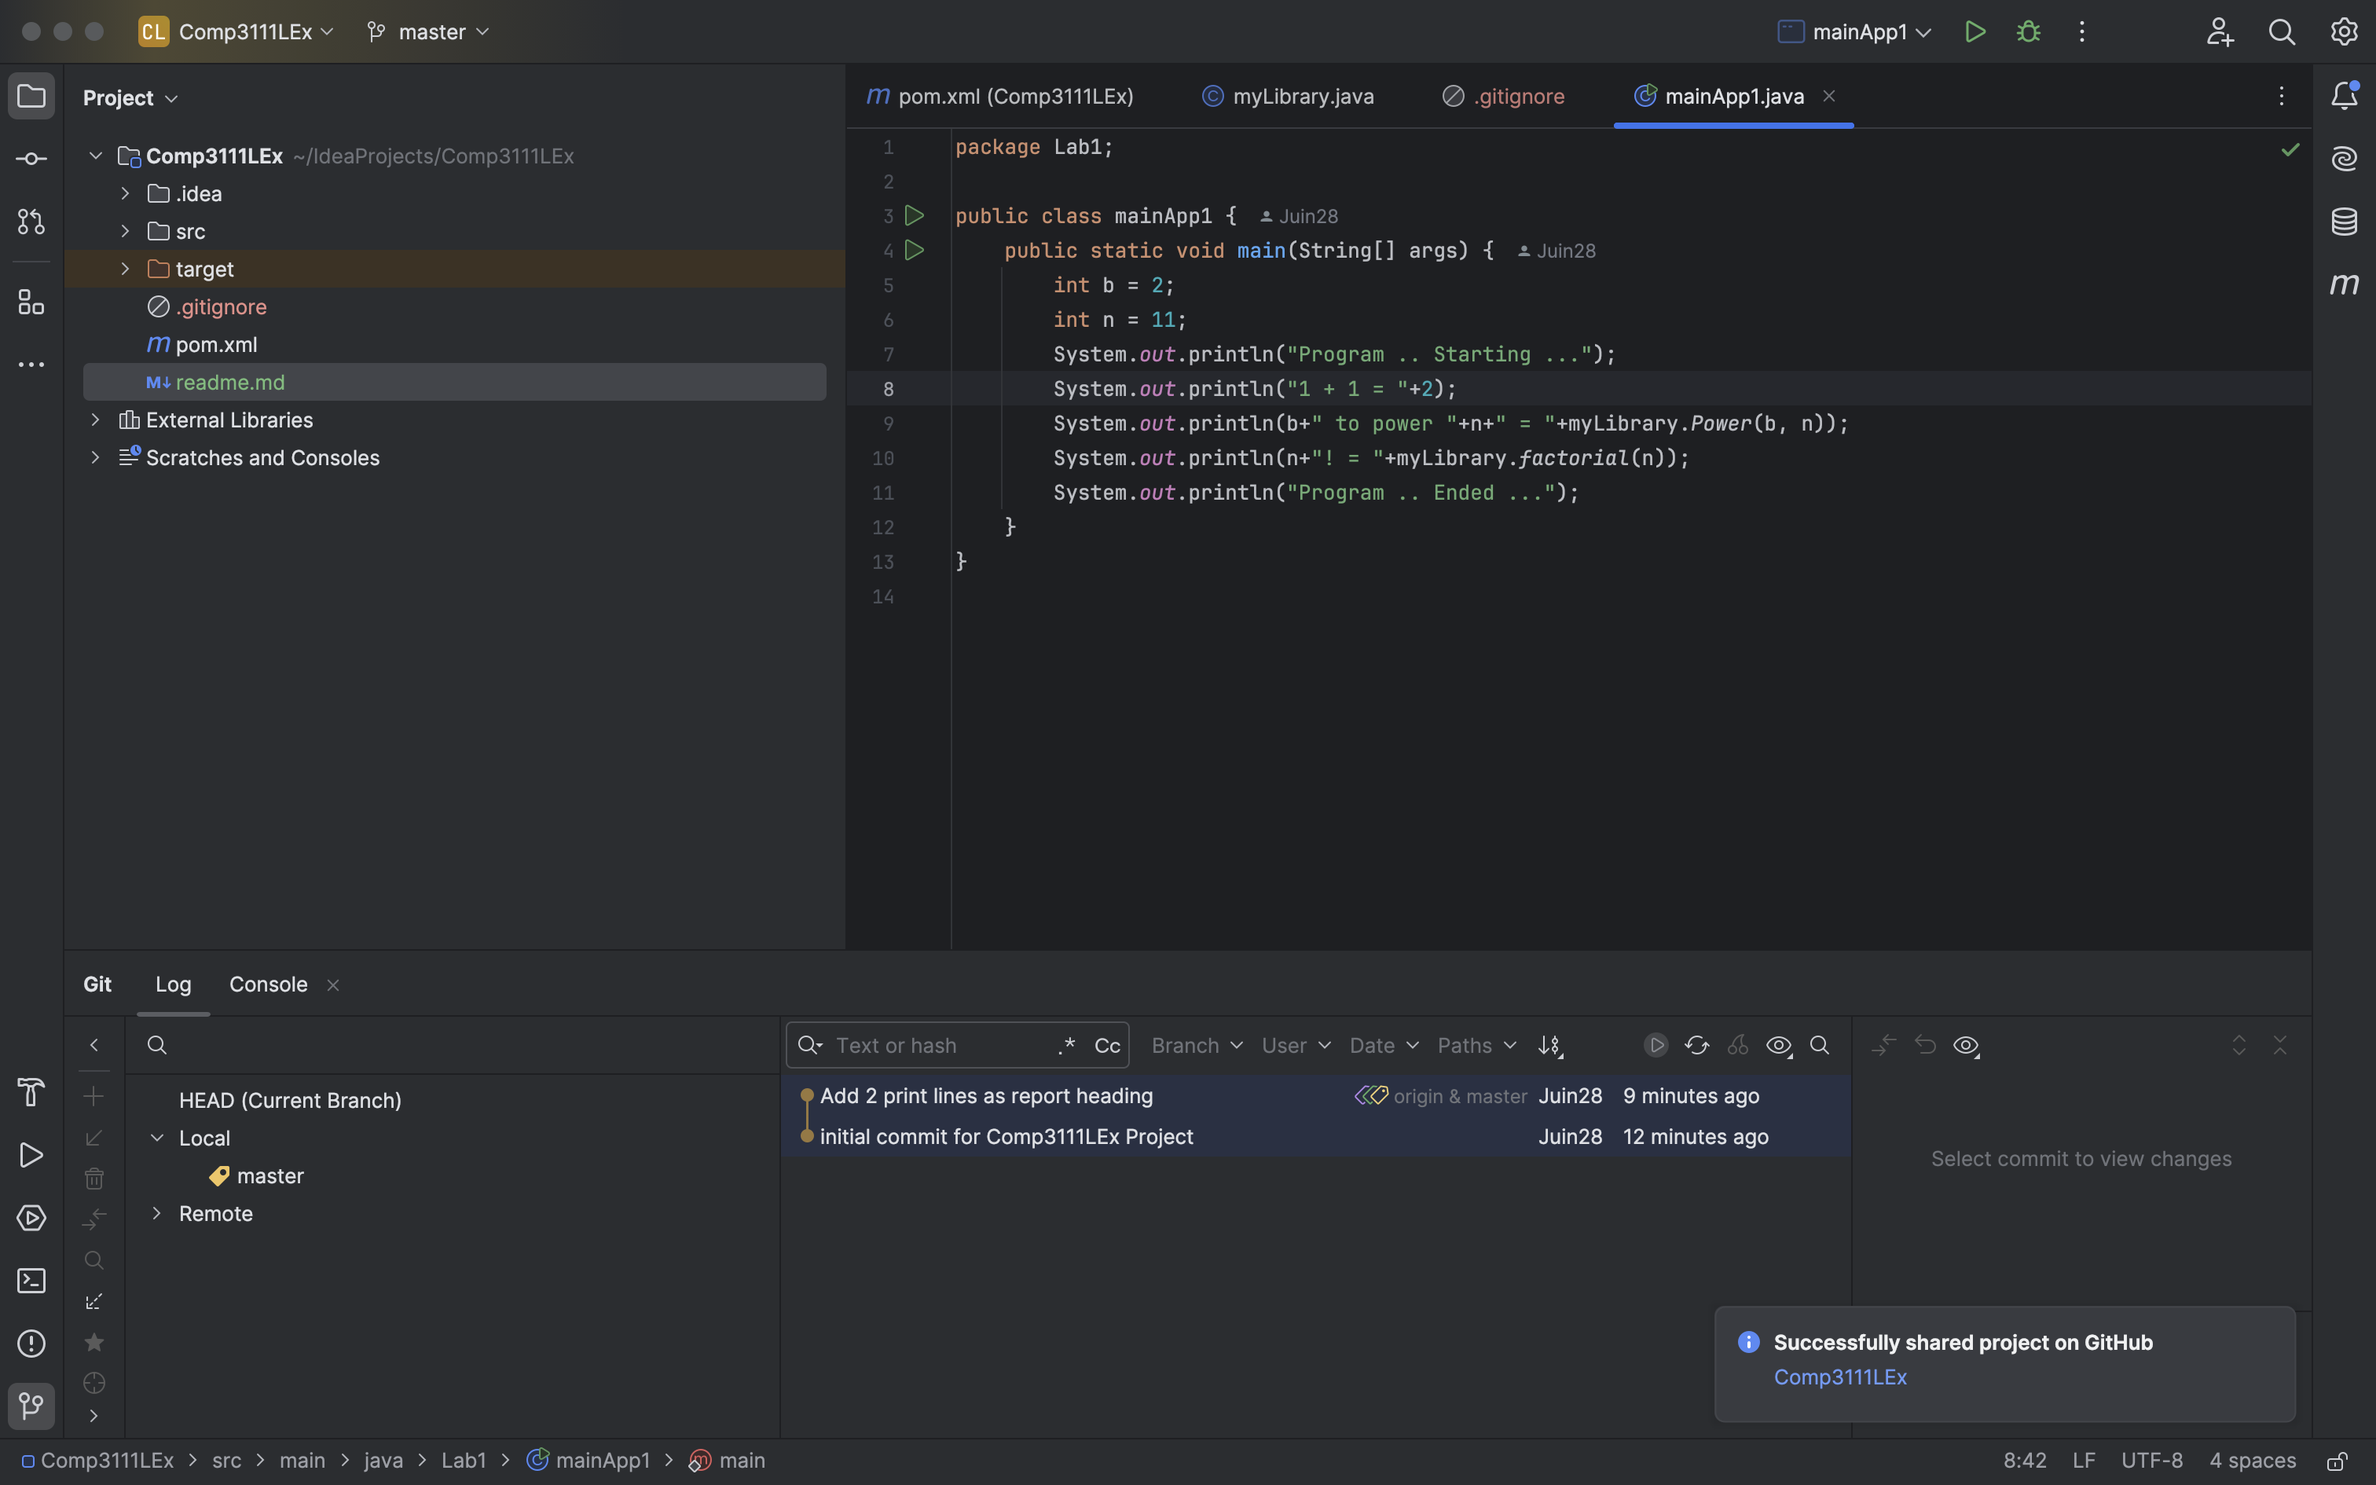
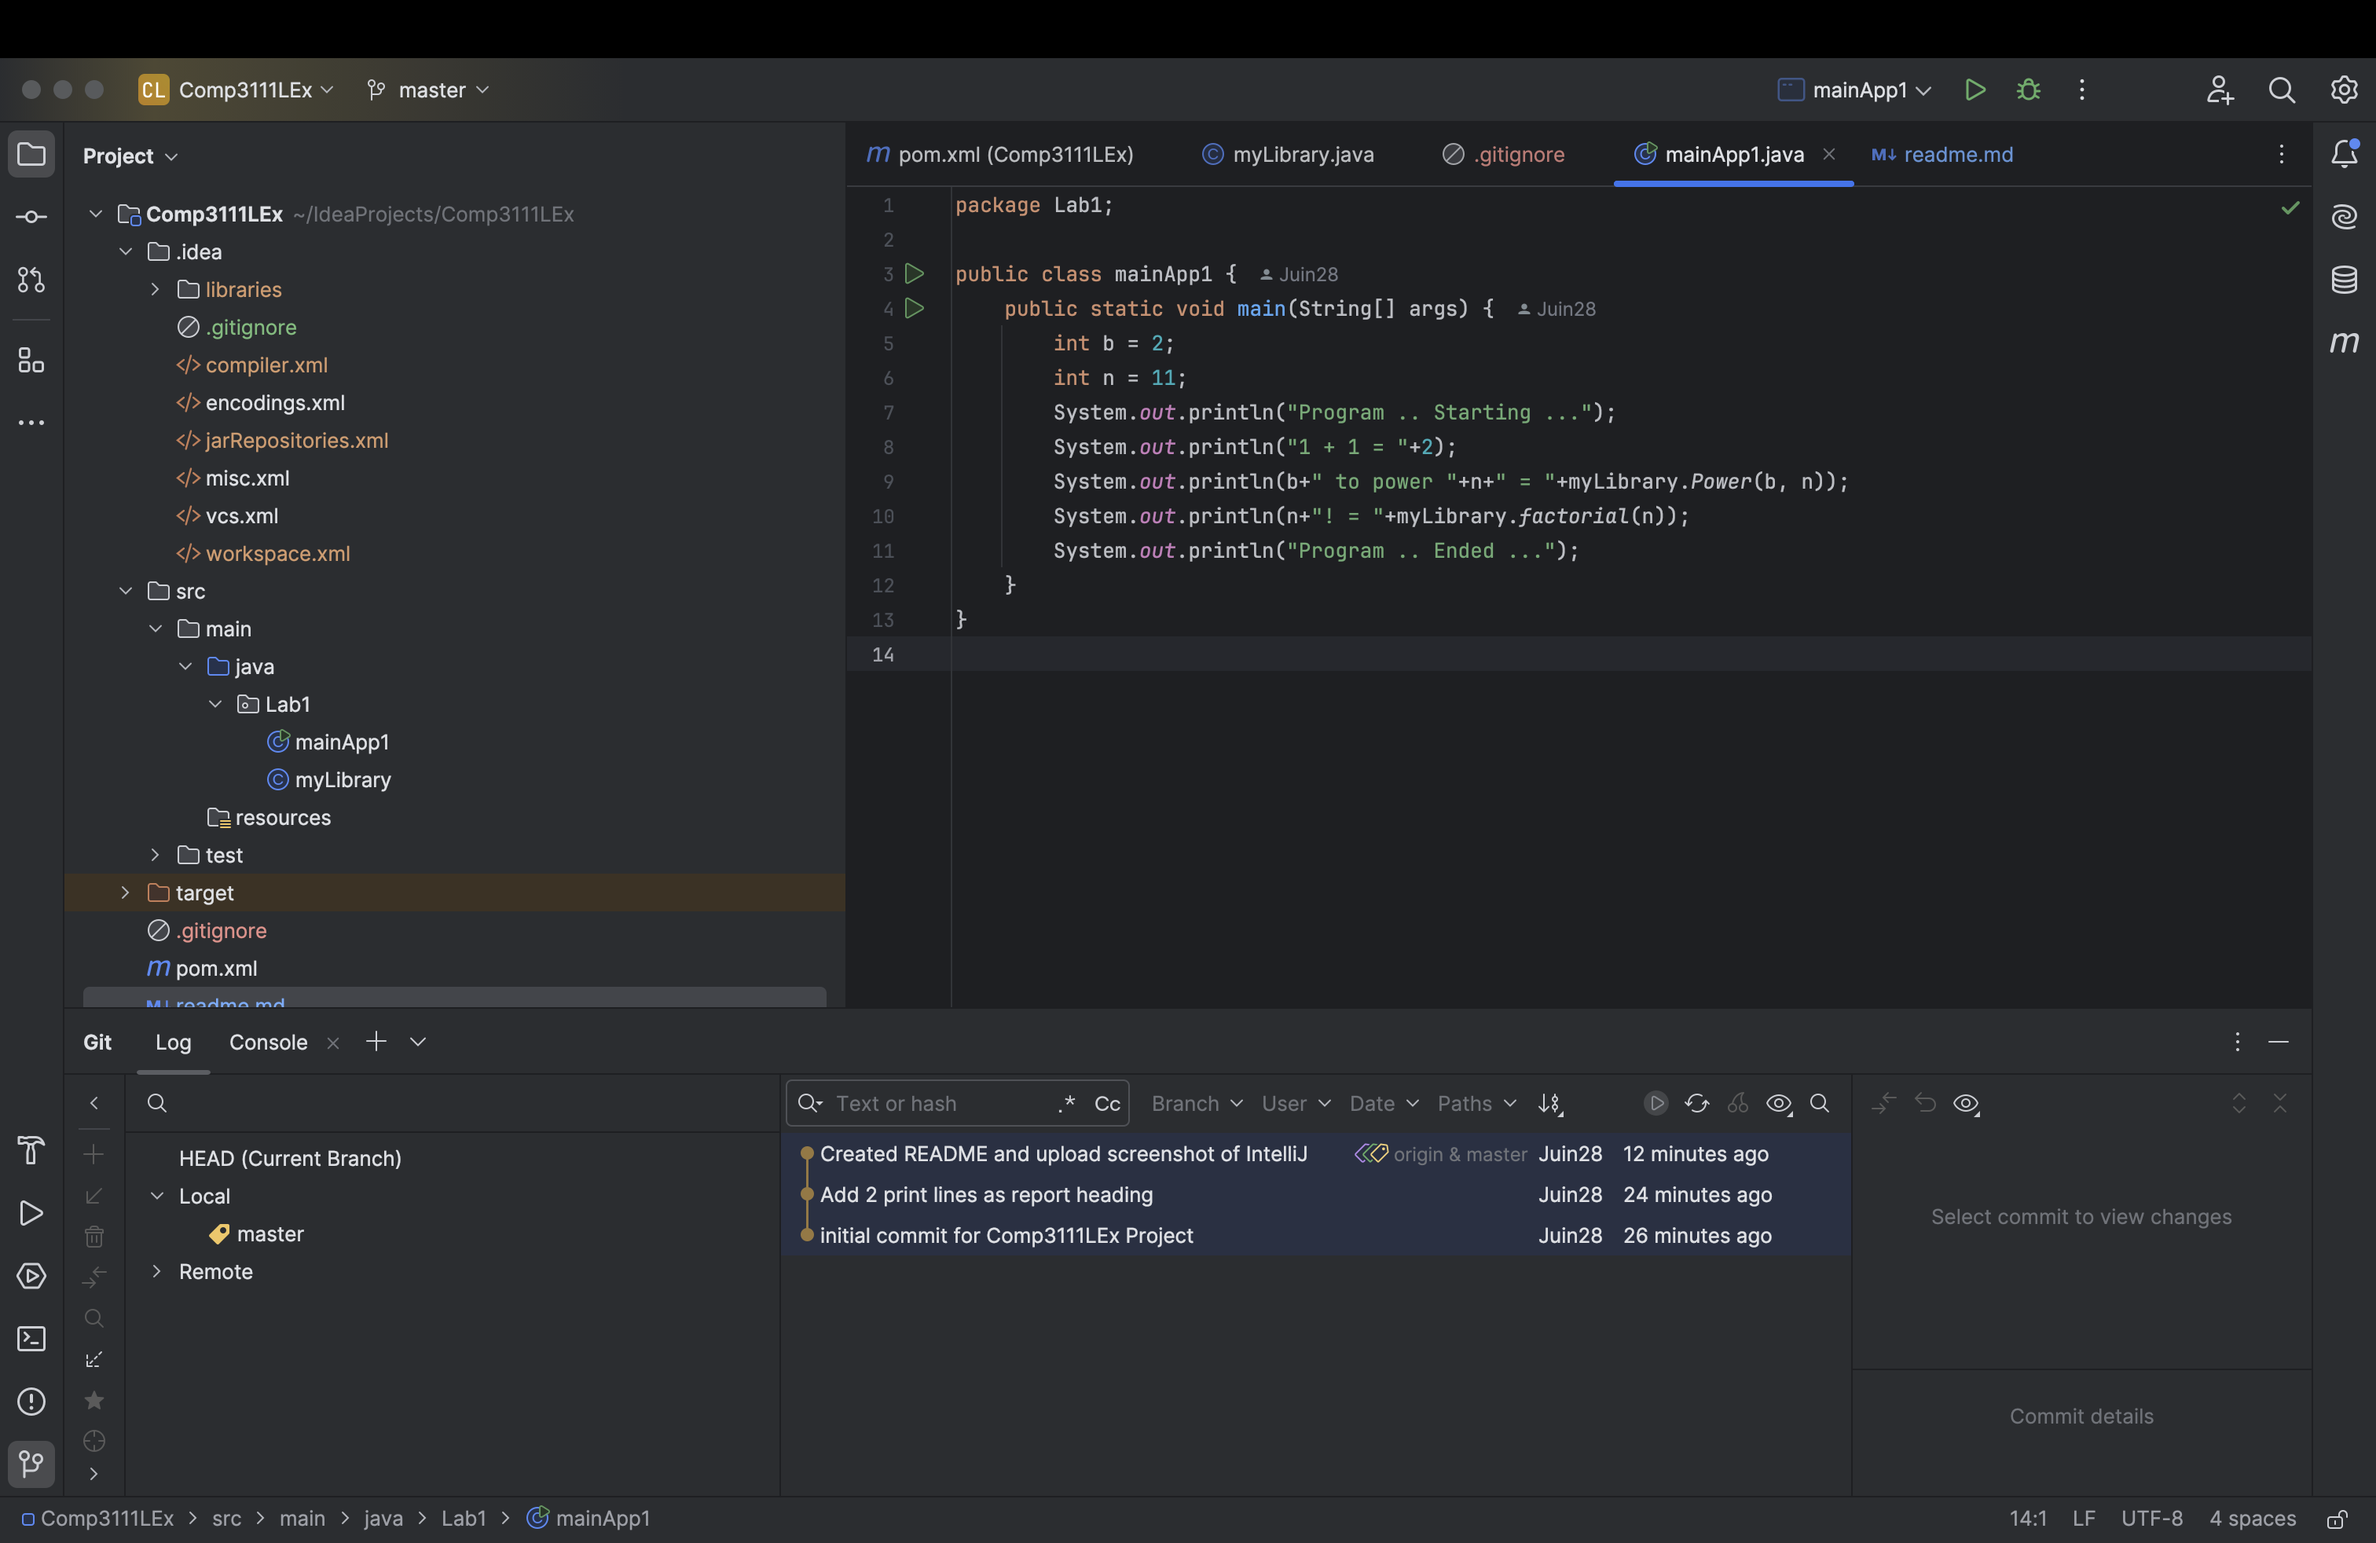
Created README and upload screenshot of IntelliJ

diff --git a/readme.md b/readme.md
@@ -1,3 +1,9 @@
 # COMP3111 Lab 1
 
-![Screenshot of IntelliJ](img.png)
+## This is my 1st lab in Comp3111 - Software Engineering
+1. I have learnt the way to build a Java Project in IntelliJ
+2. I have successfully created my first Github to share project source with others
+
+## Here's the screenshot of my 1st lab in IntelliJ
+![Screenshot of IntelliJ](https://github.com/Juin28/Comp3111LEx/blob/master/Screenshot.png?raw=true)
+
